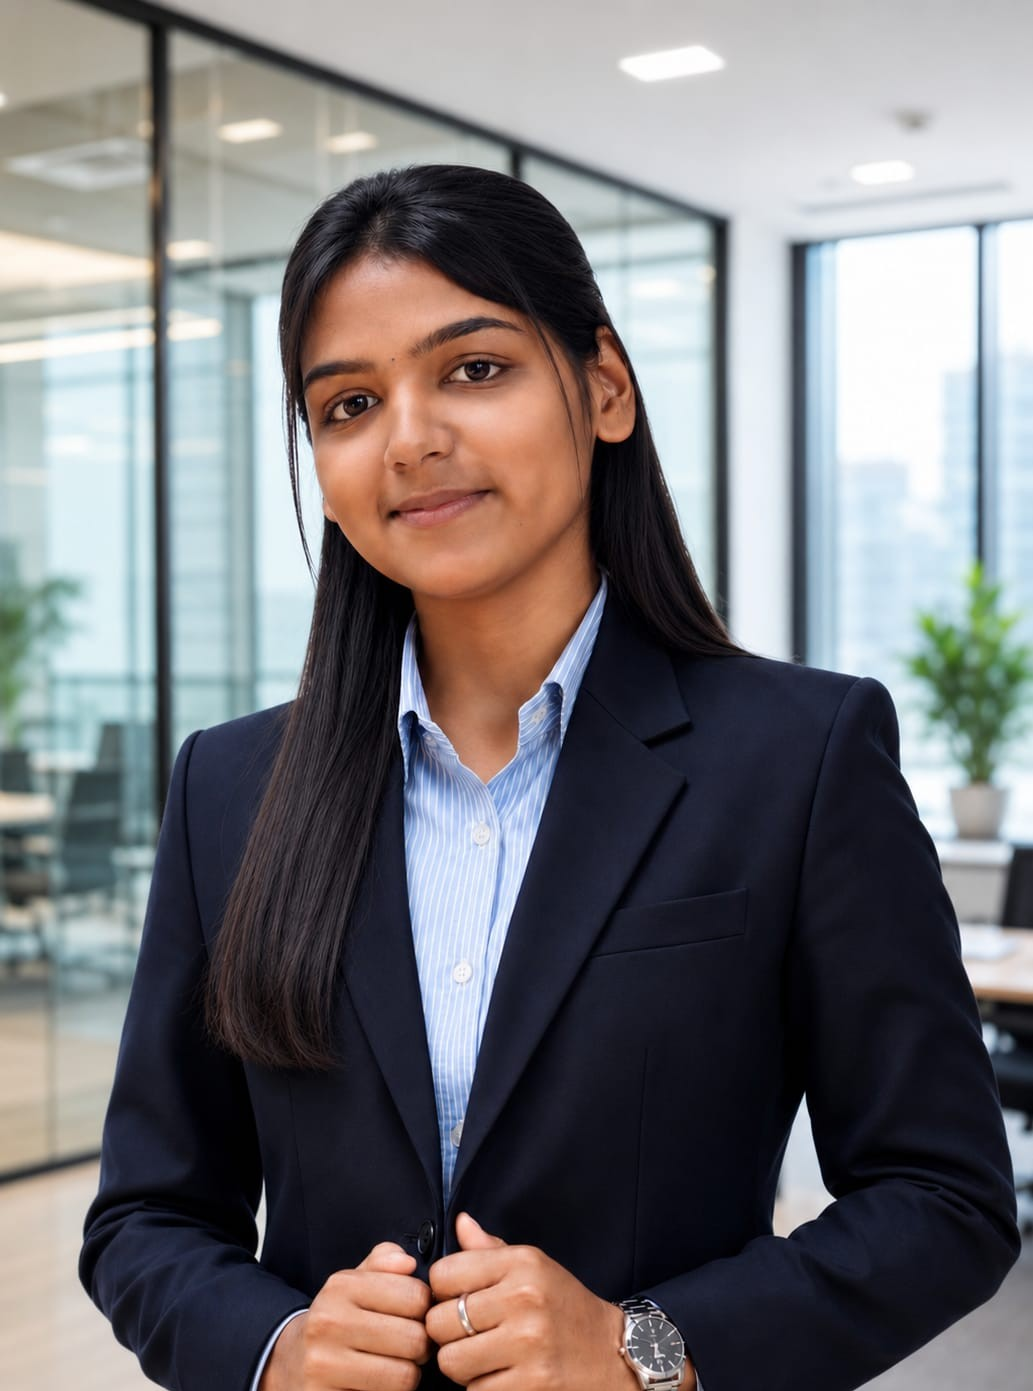
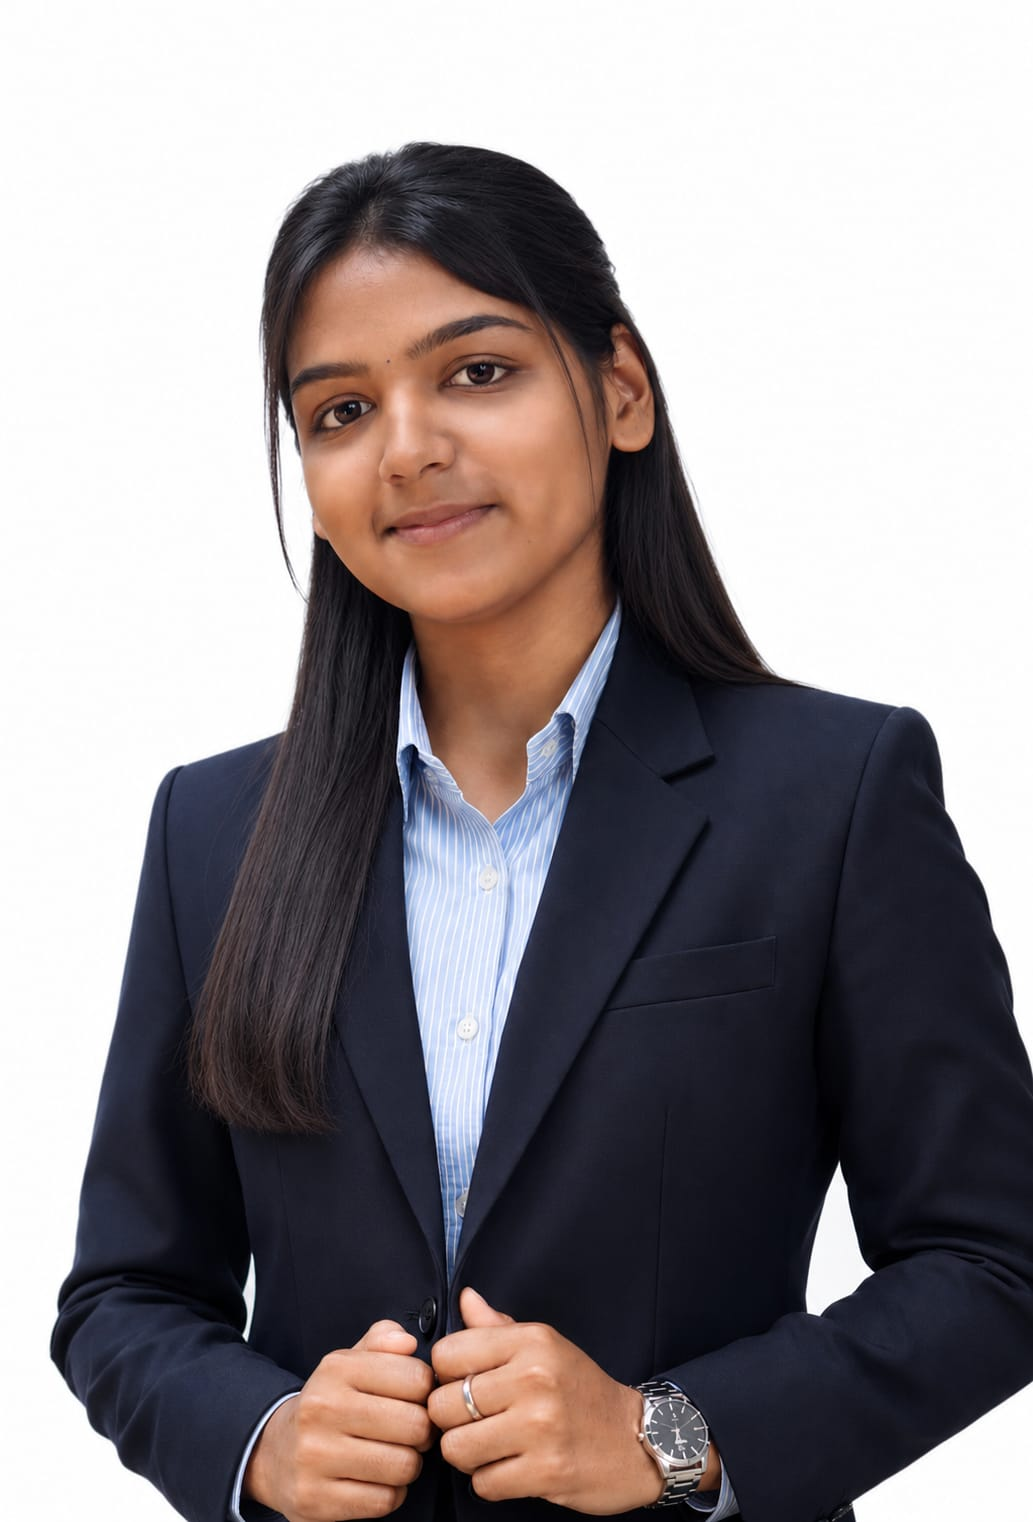
Updated Student Task Manager

diff --git a/db_config.py b/db_config.py
@@ -5,7 +5,7 @@ def get_database_connection():
     connection = mysql.connector.connect(
         host="gateway01.ap-southeast-1.prod.aws.tidbcloud.com",
         user="jv3Yu2NL1ExHgCF.root",
-        password="XoCSBiaITHYCcB4B",
+        password="kVhqfCNinLTT2k9o",
         database="student_task_manager",
         port=4000
     )

diff --git a/app.py b/app.py
@@ -48,7 +48,7 @@ def login():
 
             return render_template(
                 'login.html',
-                error='Invalid Username or Password'4
+                error='Invalid Username or Password'
             )
 
     return render_template(
